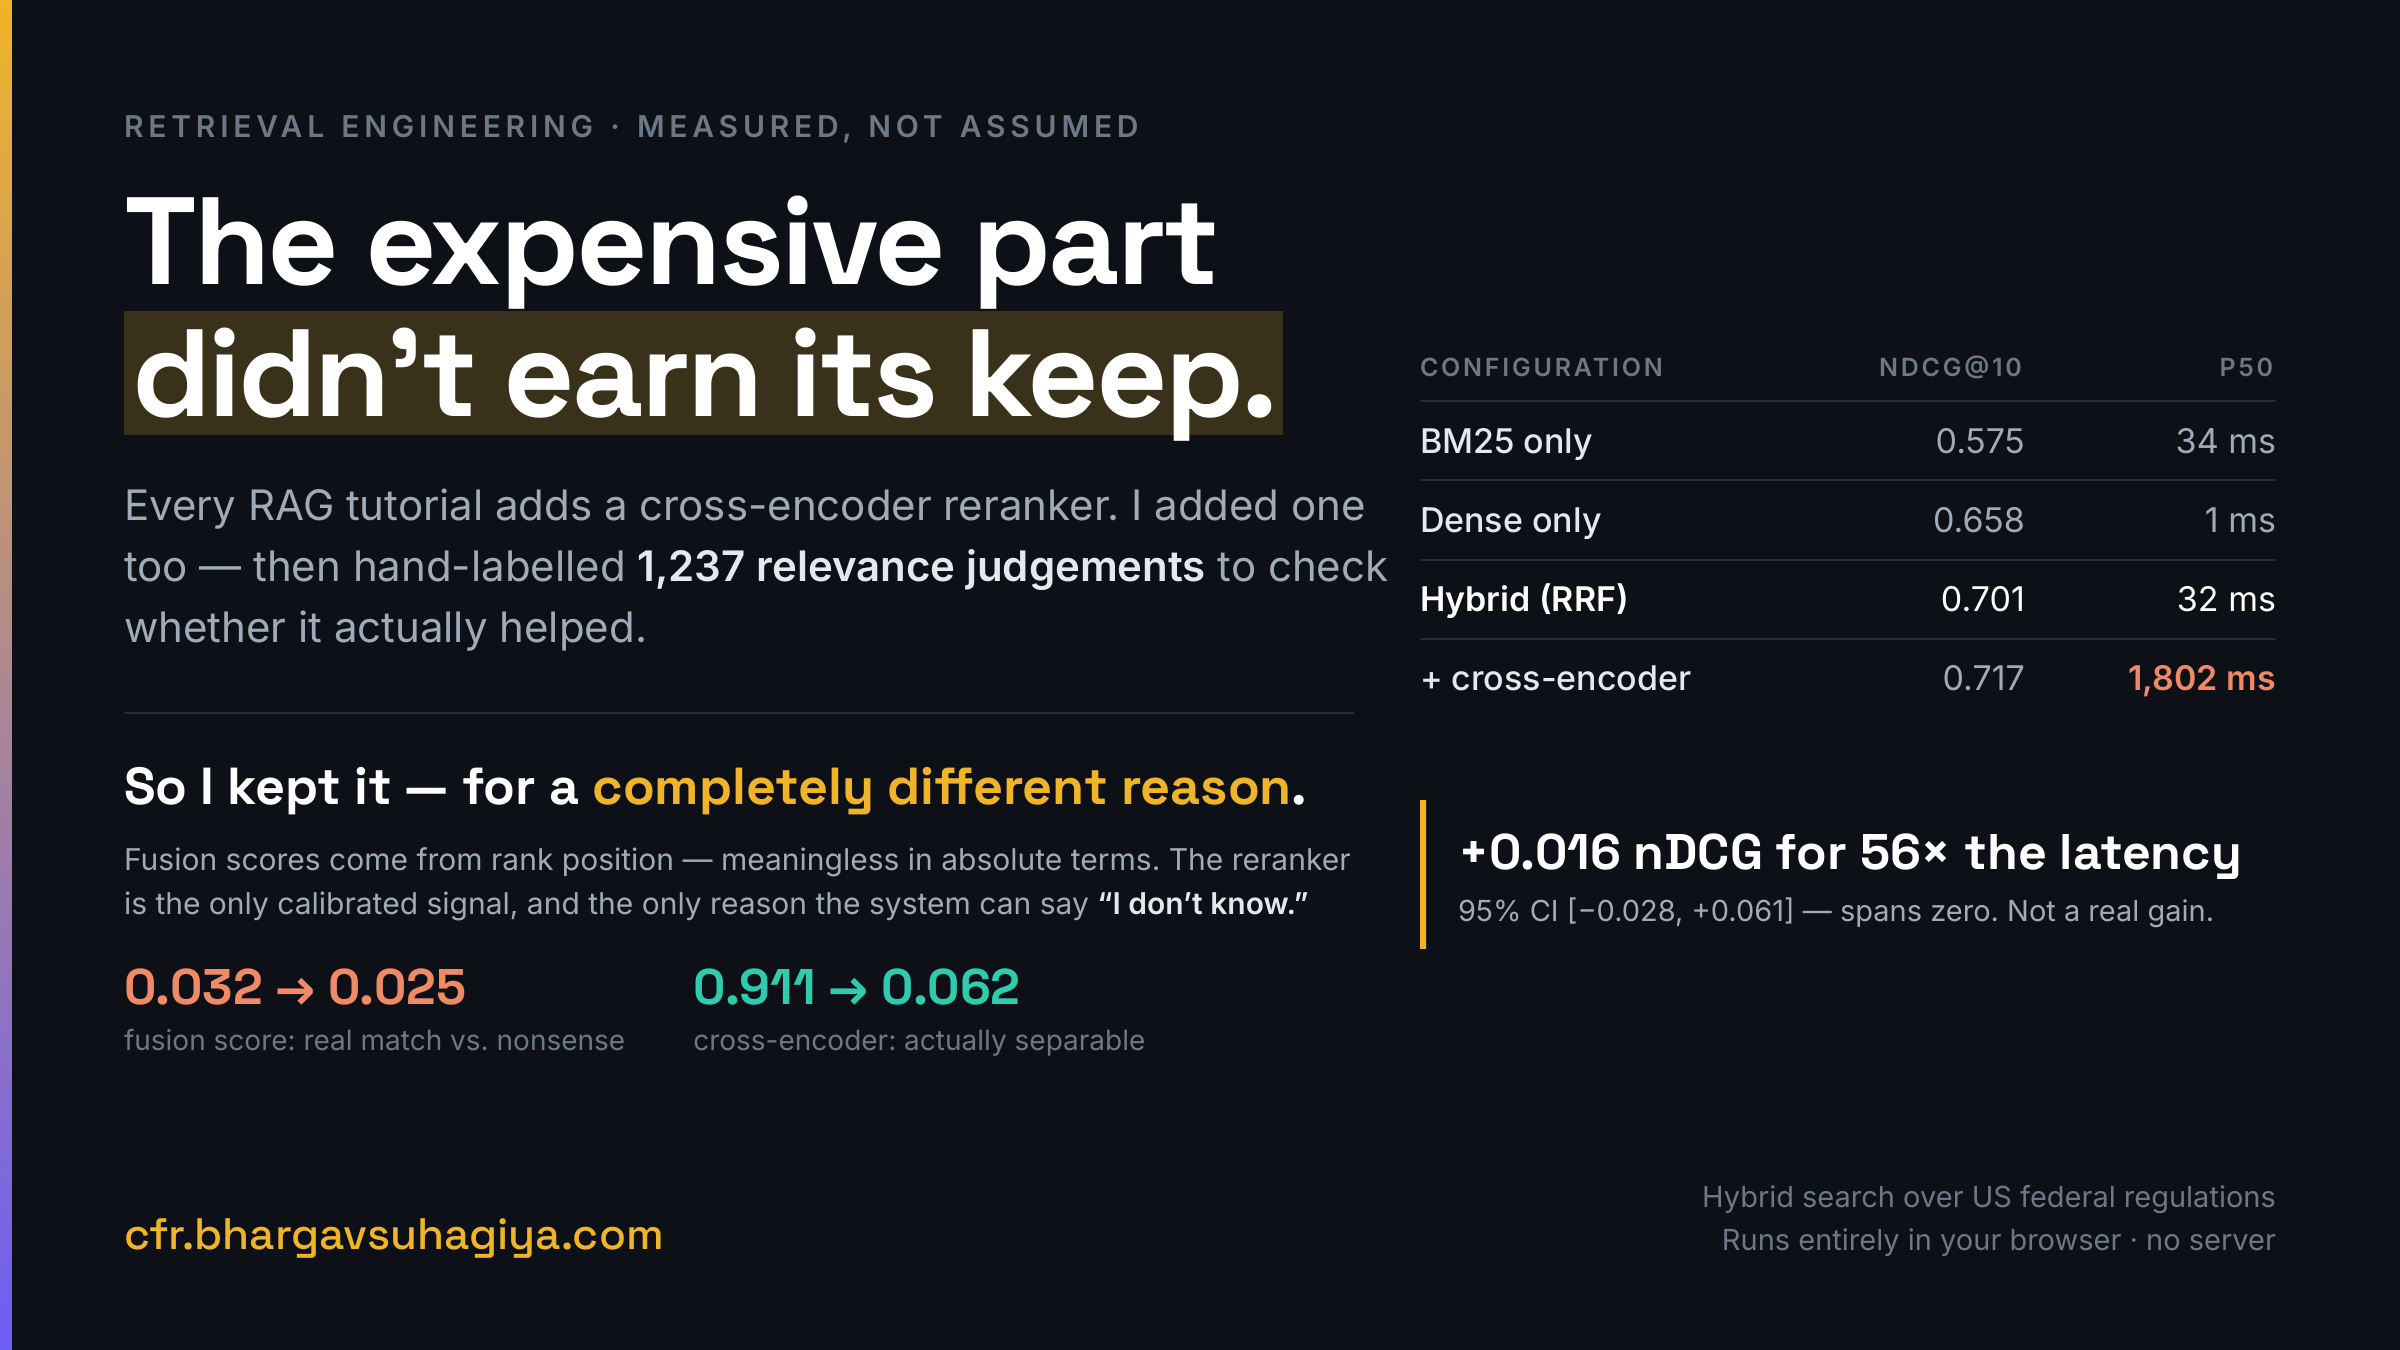
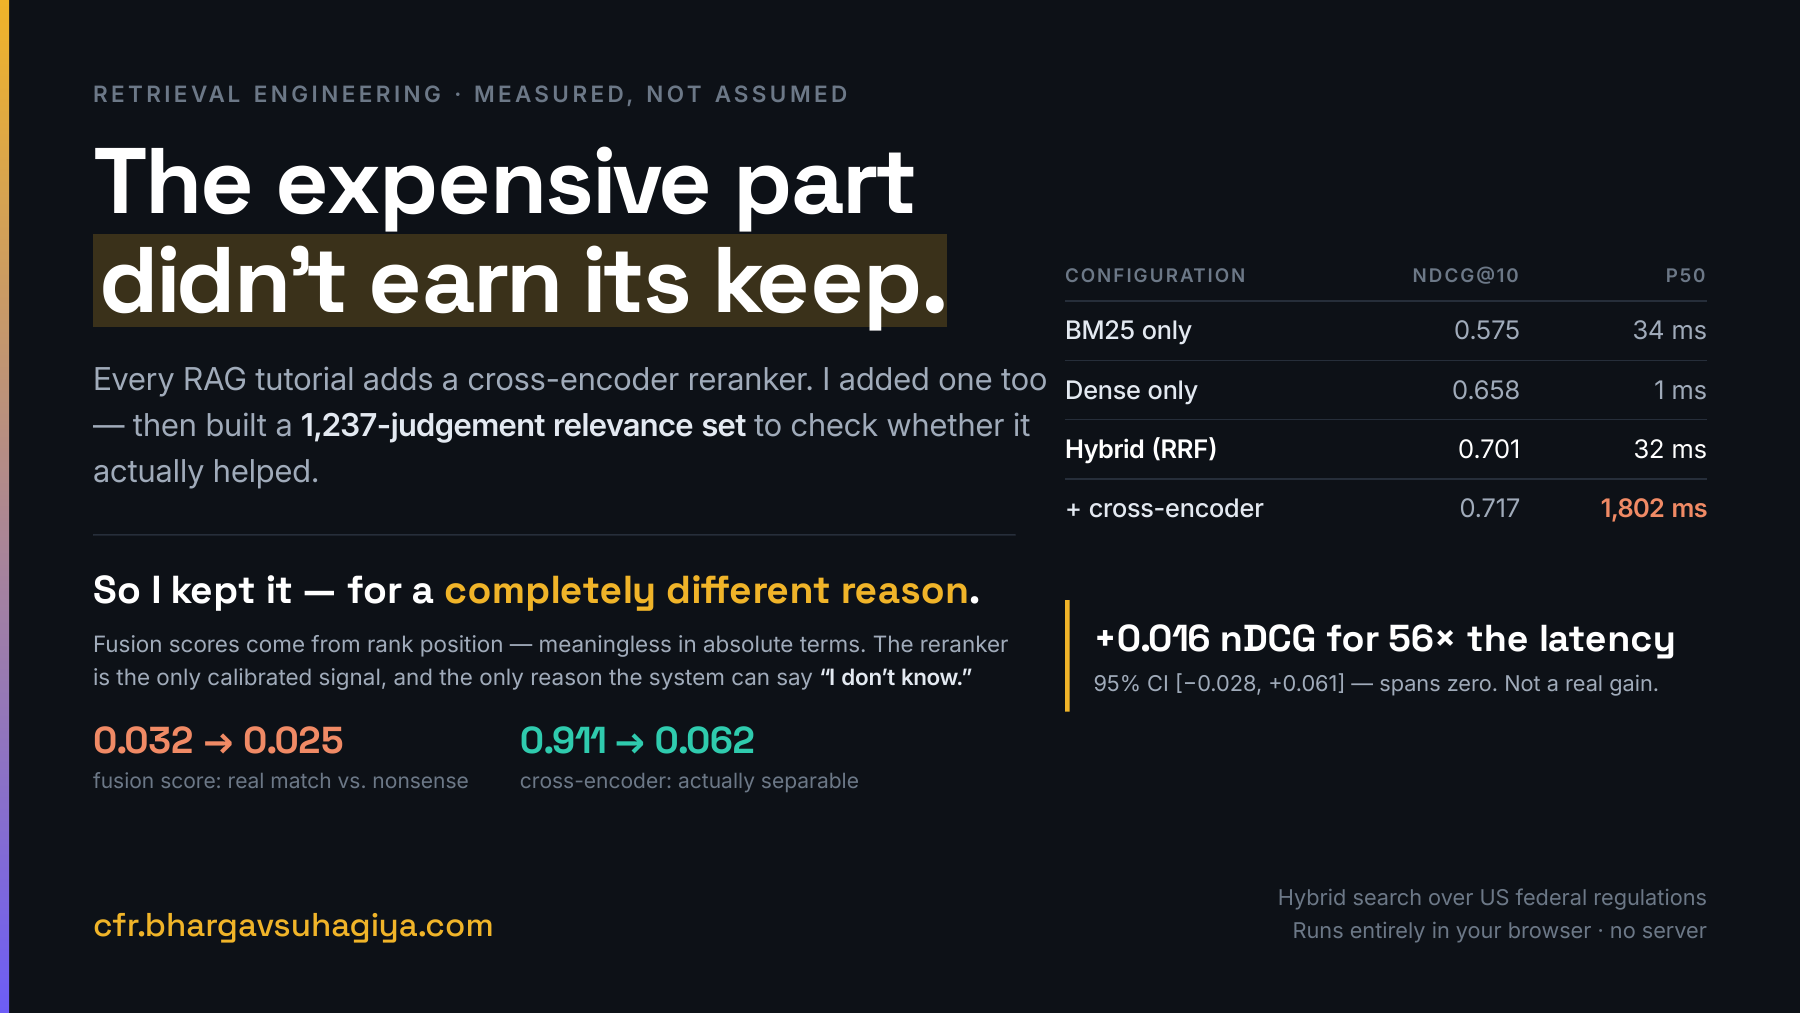
Add the agent-finding social card and rewrite the LinkedIn post
The post now leads with the reformulation measurement rather than the reranker
one — same through-line, but a failure a non-technical reader can repeat: a
question about linked lists rewritten into "40 CFR" and answered at 0.80
confidence, past a refusal threshold of 0.20. The reranker post is kept below it
as the previous version so the two don't get run as if they were different.

Also removes the "hand-labelled" claim everywhere it survived — the published
qrels record judged_by: machine:claude on every row, so a post or resume line
next to that link was a liability. The defensible claim was never who moved the
mouse; it is the methodology, which is now what it says.

deploy/social/build.sh makes the cards reproducible: weasyprint needs Homebrew's
pango on DYLD_FALLBACK_LIBRARY_PATH, and the fonts are fetched into a cache
rather than committed, which is why the cards reference FONTS/ placeholders.

diff --git a/deploy/social/card-agents.html b/deploy/social/card-agents.html
@@ -1,0 +1,144 @@
+<!doctype html>
+<html>
+<head>
+<meta charset="utf-8">
+<style>
+  @font-face { font-family: SG; src: url("FONTS/SpaceGrotesk-700.ttf"); font-weight: 700; }
+  @font-face { font-family: SG; src: url("FONTS/SpaceGrotesk-500.ttf"); font-weight: 500; }
+  @font-face { font-family: In; src: url("FONTS/Inter-400.ttf"); font-weight: 400; }
+  @font-face { font-family: In; src: url("FONTS/Inter-500.ttf"); font-weight: 500; }
+  @font-face { font-family: In; src: url("FONTS/Inter-600.ttf"); font-weight: 600; }
+
+  @page { size: 1200px 675px; margin: 0; }
+  * { box-sizing: border-box; margin: 0; padding: 0; }
+
+  body {
+    width: 1200px; height: 675px;
+    background: #0d1117;
+    color: #e3e9f1;
+    font-family: In, sans-serif;
+    padding: 54px 62px 46px;
+    position: relative;
+  }
+
+  .rail { position: absolute; left: 0; top: 0; width: 6px; height: 675px;
+          background: linear-gradient(180deg, #f0b429 0%, #6d5df6 100%); }
+
+  .eyebrow { font-family: In; font-size: 15px; letter-spacing: 2.4px; text-transform: uppercase;
+             color: #6c7887; font-weight: 600; }
+
+  h1 { font-family: SG; font-weight: 700; font-size: 52px; line-height: 1.07;
+       letter-spacing: -1.3px; margin-top: 15px; color: #ffffff; max-width: 700px; }
+  h1 .hl { background: rgba(240,180,41,.20); border-bottom: 3px solid #f0b429; padding: 0 4px; }
+
+  .sub { font-size: 18.5px; line-height: 1.45; color: #a0abba; margin-top: 16px; max-width: 640px; }
+  .sub b { color: #e3e9f1; font-weight: 600; }
+
+  /* the tally, as a table because that is the actual artifact */
+  table { position: absolute; right: 62px; top: 172px; border-collapse: collapse; width: 424px; }
+  th { font-family: In; font-size: 12.5px; letter-spacing: 1.4px; text-transform: uppercase;
+       color: #6c7887; font-weight: 600; text-align: right; padding: 0 0 9px 22px; }
+  th.l { text-align: left; padding-left: 0; }
+  td { font-size: 17px; padding: 9px 0 9px 22px; text-align: right;
+       border-top: 1px solid #262e3a; font-family: In; color: #a0abba; }
+  td.l { text-align: left; padding-left: 0; color: #e3e9f1; font-weight: 500; }
+  tr.bad td { color: #f08a65; font-weight: 600; }
+  tr.bad td.l { color: #ffffff; font-weight: 600; }
+  .zero { color: #6c7887; }
+
+  .verdict { position: absolute; right: 62px; top: 392px; width: 424px;
+             border-left: 3px solid #f0b429; padding: 10px 0 10px 16px; }
+  .verdict .d { font-family: SG; font-weight: 700; font-size: 25px; color: #ffffff; }
+  .verdict .c { font-size: 14.5px; color: #a0abba; margin-top: 5px; font-family: In; line-height: 1.45; }
+
+  /* the receipt: one real rewrite, exactly as it happened */
+  .receipt { position: absolute; left: 62px; top: 300px; width: 640px;
+             border-top: 1px solid #262e3a; padding-top: 18px; }
+  .lab { font-size: 11.5px; letter-spacing: 1.6px; text-transform: uppercase;
+         color: #6c7887; font-weight: 600; }
+  .q { font-family: SG; font-weight: 500; font-size: 20.5px; color: #e3e9f1; margin-top: 6px; }
+  .arrow { font-size: 14px; color: #6c7887; margin: 9px 0 0; }
+  .arrow b { color: #f0b429; font-weight: 600; }
+  .q2 { font-family: SG; font-weight: 700; font-size: 28px; color: #ffffff; margin-top: 2px; }
+  .conf { margin-top: 13px; display: flex; align-items: baseline; gap: 13px; }
+  .conf .n { font-family: SG; font-weight: 700; font-size: 27px; color: #6c7887; }
+  .conf .to { font-size: 20px; color: #6c7887; }
+  .conf .hi { font-family: SG; font-weight: 700; font-size: 27px; color: #f08a65; }
+  .conf .note { font-size: 14px; color: #a0abba; margin-left: 4px; }
+  .conf .note b { color: #f08a65; font-weight: 600; }
+
+  /* what the shape actually is, so "multi-agent" is not just a word in the sub */
+  .arch { position: absolute; left: 62px; top: 492px; width: 640px;
+          border-top: 1px solid #262e3a; padding-top: 15px; }
+  .chips { display: flex; align-items: baseline; gap: 9px; }
+  .chips .sup { font-family: SG; font-weight: 700; font-size: 15px; color: #f0b429;
+                letter-spacing: .3px; }
+  .chips .to { font-size: 14px; color: #6c7887; margin: 0 2px; }
+  .chips .c { font-family: In; font-weight: 600; font-size: 14px; color: #e3e9f1;
+              border: 1px solid #2c3644; border-radius: 20px; padding: 4px 12px; }
+  .arch .c2 { font-size: 14px; color: #a0abba; margin-top: 11px; line-height: 1.45; }
+  .arch .c2 b { color: #e3e9f1; font-weight: 600; }
+
+  .foot { position: absolute; left: 62px; right: 62px; bottom: 44px;
+          display: flex; justify-content: space-between; align-items: flex-end; }
+  .foot .url { font-family: SG; font-weight: 500; font-size: 22px; color: #f0b429; }
+  .foot .who { font-size: 14.5px; color: #6c7887; text-align: right; line-height: 1.5; }
+</style>
+</head>
+<body>
+  <div class="rail"></div>
+
+  <div class="eyebrow">Agent engineering · measured, not assumed</div>
+  <h1>The agent's one smart idea<br><span class="hl">broke the safety check.</span></h1>
+  <p class="sub">
+    Three agents under a supervisor — every routing decision deterministic, except
+    one: let the researcher <b>rewrite the queries it can’t answer</b>.
+  </p>
+
+  <table>
+    <tr><th class="l">Outcome of 36 rewrites</th><th>Count</th></tr>
+    <tr><td class="l">Queries rescued</td><td class="zero">0</td></tr>
+    <tr><td class="l">Rankings improved</td><td class="zero">0</td></tr>
+    <tr><td class="l">No change</td><td>32</td></tr>
+    <tr class="bad"><td class="l">Defeated the refusal gate</td><td>4</td></tr>
+  </table>
+
+  <div class="verdict">
+    <div class="d">Zero upside. 11% failure rate.</div>
+    <div class="c">
+      Every answerable query already cleared the threshold, so there was
+      nothing to rescue — only something to break.
+    </div>
+  </div>
+
+  <div class="receipt">
+    <div class="lab">The user asked</div>
+    <div class="q">“Write a Python function that reverses a linked list”</div>
+    <div class="arrow">↓ &nbsp;<b>the agent rewrote it to</b></div>
+    <div class="q2">“40 CFR”</div>
+    <div class="conf">
+      <span class="n">0.07</span><span class="to">→</span><span class="hi">0.80</span>
+      <span class="note">confidence — <b>sailed past the 0.20 refusal threshold</b></span>
+    </div>
+  </div>
+
+  <div class="arch">
+    <div class="chips">
+      <span class="sup">SUPERVISOR</span><span class="to">routes →</span>
+      <span class="c">researcher</span><span class="c">writer</span><span class="c">auditor</span>
+    </div>
+    <div class="c2">
+      The auditor decides <b>whose fault</b> a failure was — so sources that cannot support an
+      answer go back to retrieval, not to the writer.
+    </div>
+  </div>
+
+  <div class="foot">
+    <div class="url">cfr.bhargavsuhagiya.com</div>
+    <div class="who">
+      Shipped disabled, with the measurement in the repo<br>
+      Third feature in this project killed by its own evidence
+    </div>
+  </div>
+</body>
+</html>

diff --git a/deploy/social/card.html b/deploy/social/card.html
@@ -77,7 +77,7 @@
   <h1>The expensive part<br><span class="hl">didn't earn its keep.</span></h1>
   <p class="sub">
     Every RAG tutorial adds a cross-encoder reranker. I added one too — then
-    hand-labelled <b>1,237 relevance judgements</b> to check whether it actually helped.
+    built a <b>1,237-judgement relevance set</b> to check whether it actually helped.
   </p>
 
   <table>

diff --git a/deploy/writeups.md b/deploy/writeups.md
@@ -8,6 +8,90 @@ all of them is the same, and it is deliberately not "I built a RAG app": it is
 
 ## LinkedIn post
 
+Current version — leads with the agent finding. The reranker post (kept below)
+was the previous one; don't run both, the second reads as a rerun of the first.
+
+> I gave an AI agent exactly one decision to make on its own. It used it to talk
+> my safety check out of doing its job.
+>
+> I built a search engine over US federal regulations. The hard part isn't
+> finding the text — it's that you can't search for what you can't name. Ask
+> *"how long can I store waste oil"* and you get nothing, because the regulation
+> says **accumulate**, not store, and **90 days**, not how long.
+>
+> So: let an agent rewrite your question into the regulator's vocabulary before
+> searching. Everyone builds this. It's the textbook agentic-RAG move, and on
+> paper it's the exact fix for the exact problem.
+>
+> I built it. Then I measured it — 36 rewrites against a graded relevance set.
+>
+> **It rescued zero queries.**
+>
+> Not "few". Zero. Because every question the corpus could actually answer was
+> already being found. There was nothing to rescue. What there was, was
+> something to break:
+>
+> "Write a Python function that reverses a linked list"
+> → the agent rewrote it to **"40 CFR"**
+> → confidence went **0.07 → 0.80**
+>
+> 0.20 is the threshold below which the system refuses to answer. That refusal
+> is the most important thing it does — a regulatory search tool that guesses is
+> worse than no tool. And one clever rewrite walked a question about linked
+> lists straight past it, into hazardous waste law, confidently.
+>
+> **11% of the rewrites did this.**
+>
+> So it ships disabled. The code is there, the measurement is in the repo, and a
+> flag turns it on for anyone whose corpus has a real vocabulary gap. On mine it
+> was a plausible idea with zero upside and a 1-in-9 chance of defeating the
+> only guarantee I actually make.
+>
+> Third feature in this project I've built, measured, and switched off.
+>
+> The part I'd defend in an interview is what I *didn't* hand to a model. Three
+> agents — researcher, writer, auditor — under a supervisor that routes on
+> measured state: a calibrated threshold, attempt budgets, and the auditor's
+> verdict on **whose fault** a failure was. Fabricated quotes are the writer's
+> problem and earn a retry. Sources that can't support an answer are the
+> researcher's problem — re-prompting the writer there just buys you a more
+> confident fabrication.
+>
+> Exactly one LLM call in the whole control flow. That was the one that broke it.
+>
+> Live: https://cfr.bhargavsuhagiya.com
+> Code + full measurement: https://github.com/bored-apes/cfr-retrieval
+>
+> #AIEngineering #AgenticAI #LLM #RAG #MachineLearning
+
+**Notes on posting.** The first two lines are the whole game — everything after
+"see more" is read by people who already decided to care. Don't soften "zero" and
+don't move the linked-list example lower; it is the only part a non-technical
+reader can repeat to someone else. Attach `social/cfr-agent-finding.png`.
+
+If you want it shorter, cut from "The part I'd defend" to the end — the post
+survives intact, it just stops being about architecture.
+
+### X / Twitter version
+
+> I gave an AI agent one decision to make on its own.
+>
+> It used it to defeat my safety check.
+>
+> "Write a Python function that reverses a linked list"
+> → agent rewrote it to "40 CFR"
+> → confidence 0.07 → 0.80
+>
+> (0.20 is where the system is supposed to refuse.)
+>
+> 11% of rewrites did this. It rescued 0 queries.
+>
+> Ships disabled. 🧵
+
+---
+
+## LinkedIn post — previous version (reranker)
+
 > I spent two weeks building a search engine for US federal regulations. The
 > most useful thing I did was prove one of my own design decisions was wrong.
 >
@@ -24,8 +108,7 @@ all of them is the same, and it is deliberately not "I built a RAG app": it is
 >
 > **The part that mattered.** Almost every system like this adds a component
 > called a reranker. It's the standard best practice, so I added it. Then I
-> spent two days hand-labelling 1,237 relevance judgements to check whether it
-> actually helped.
+> built a 1,237-judgement relevance set to check whether it actually helped.
 >
 > It didn't. It made the system 56× slower for an improvement statistically
 > indistinguishable from zero.
@@ -41,7 +124,7 @@ all of them is the same, and it is deliberately not "I built a RAG app": it is
 >
 > It now runs entirely in your browser — no server, nothing to pay for.
 >
-> Live: https://bhargavsuhagiya-cfr-retrieval.static.hf.space/
+> Live: https://cfr.bhargavsuhagiya.com
 > Code and full method: https://github.com/bored-apes/cfr-retrieval
 >
 > #MachineLearning #InformationRetrieval #AIEngineering
@@ -66,10 +149,11 @@ client-side* — 2026
   BM25 and dense vectors fused by reciprocal rank fusion, then a cross-encoder
   rerank, with character offsets preserved end to end so every citation
   highlights the exact sentence in the source regulation.
-- Hand-labelled a **1,237-judgement graded relevance set** using TREC-style
-  pooling across five configurations (33% of candidates surfaced by only one
-  config); published **nDCG@10, recall@100 and per-stage latency with 95%
-  bootstrap confidence intervals** for each.
+- Built a **1,237-judgement graded relevance set** using TREC-style pooling
+  across five configurations (33% of candidates surfaced by only one config),
+  judged blind to retrieval provenance with per-row provenance recorded;
+  published **nDCG@10, recall@100 and per-stage latency with 95% bootstrap
+  confidence intervals** for each.
 - **Measurement overturned the architecture**: the cross-encoder cost
   **+1,770 ms p50 for +0.016 nDCG@10** — a paired interval spanning zero.
   Retained it on the evidence that fusion scores are rank-derived (0.032
@@ -86,9 +170,9 @@ client-side* — 2026
 **One-line version**, if space is tight:
 
 > Hybrid BM25 + dense retrieval over federal regulations with verified span
-> citations and calibrated abstention; 1,237 hand-labelled judgements showed the
-> cross-encoder cost 56× latency for statistically zero ranking gain — kept only
-> because it is the sole calibrated signal the abstention gate can use.
+> citations and calibrated abstention; a 1,237-judgement graded relevance set
+> showed the cross-encoder cost 56× latency for statistically zero ranking gain —
+> kept only because it is the sole calibrated signal the abstention gate can use.
 
 **Skills line additions** (AI & Machine Learning): *information retrieval — BM25,
 dense retrieval, reciprocal rank fusion, cross-encoder reranking; IR evaluation
